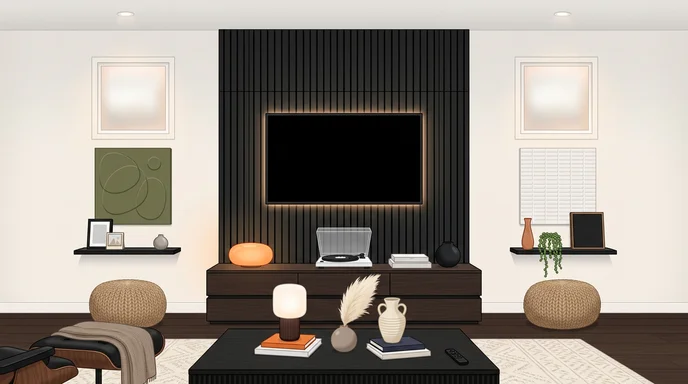
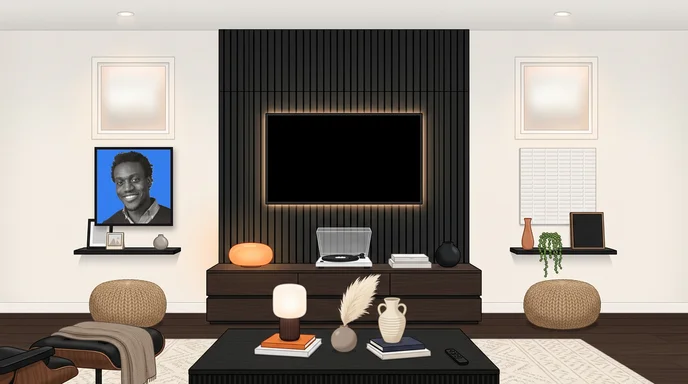
Room hero: swap olive artwork for a framed photo of Jose
Claude-Session: https://claude.ai/code/session_01NYzfRESegufW2SRf9px378

Changed region(s): [[0.1221, 0.375, 0.2747, 0.625]]

diff --git a/index.html b/index.html
@@ -410,7 +410,7 @@ footer .wrap{display:flex;justify-content:space-between;gap:20px;flex-wrap:wrap}
       <button class="hs" style="left:64.4%;top:90.2%;width:4%;height:5.2%;--d:1" data-act="channel"><span class="tip">Change the channel</span><i class="dot"></i></button>
       <button class="hs" style="left:45.6%;top:59%;width:8.5%;height:11%;--d:2" data-go="#recommendations"><span class="tip">Kind words<small>from collaborators</small></span><i class="dot"></i></button>
       <button class="hs" style="left:33%;top:62.5%;width:6.8%;height:7.4%;--d:3" data-go="#contact"><span class="tip">Get in touch</span><i class="dot"></i></button>
-      <button class="hs" style="left:13.6%;top:38.4%;width:11.4%;height:20.4%;--d:4" data-go="#how"><span class="tip">How I work</span><i class="dot"></i></button>
+      <button class="hs" style="left:13.6%;top:38.4%;width:11.4%;height:20.4%;--d:4" data-go="#how"><span class="tip">How I work<small>that's me</small></span><i class="dot"></i></button>
       <button class="hs" style="left:75.5%;top:38.4%;width:11.2%;height:20.2%;--d:5" data-go="#approach"><span class="tip">My approach</span><i class="dot"></i></button>
       <button class="hs" style="left:82.6%;top:55%;width:5.4%;height:10%;--d:6" data-go="#intro"><span class="tip">Open to roles in 2026</span><i class="dot"></i></button>
       <button class="hs" style="left:12.4%;top:56.5%;width:6%;height:8.4%;--d:7" data-go="#intro"><span class="tip">About me</span><i class="dot"></i></button>
